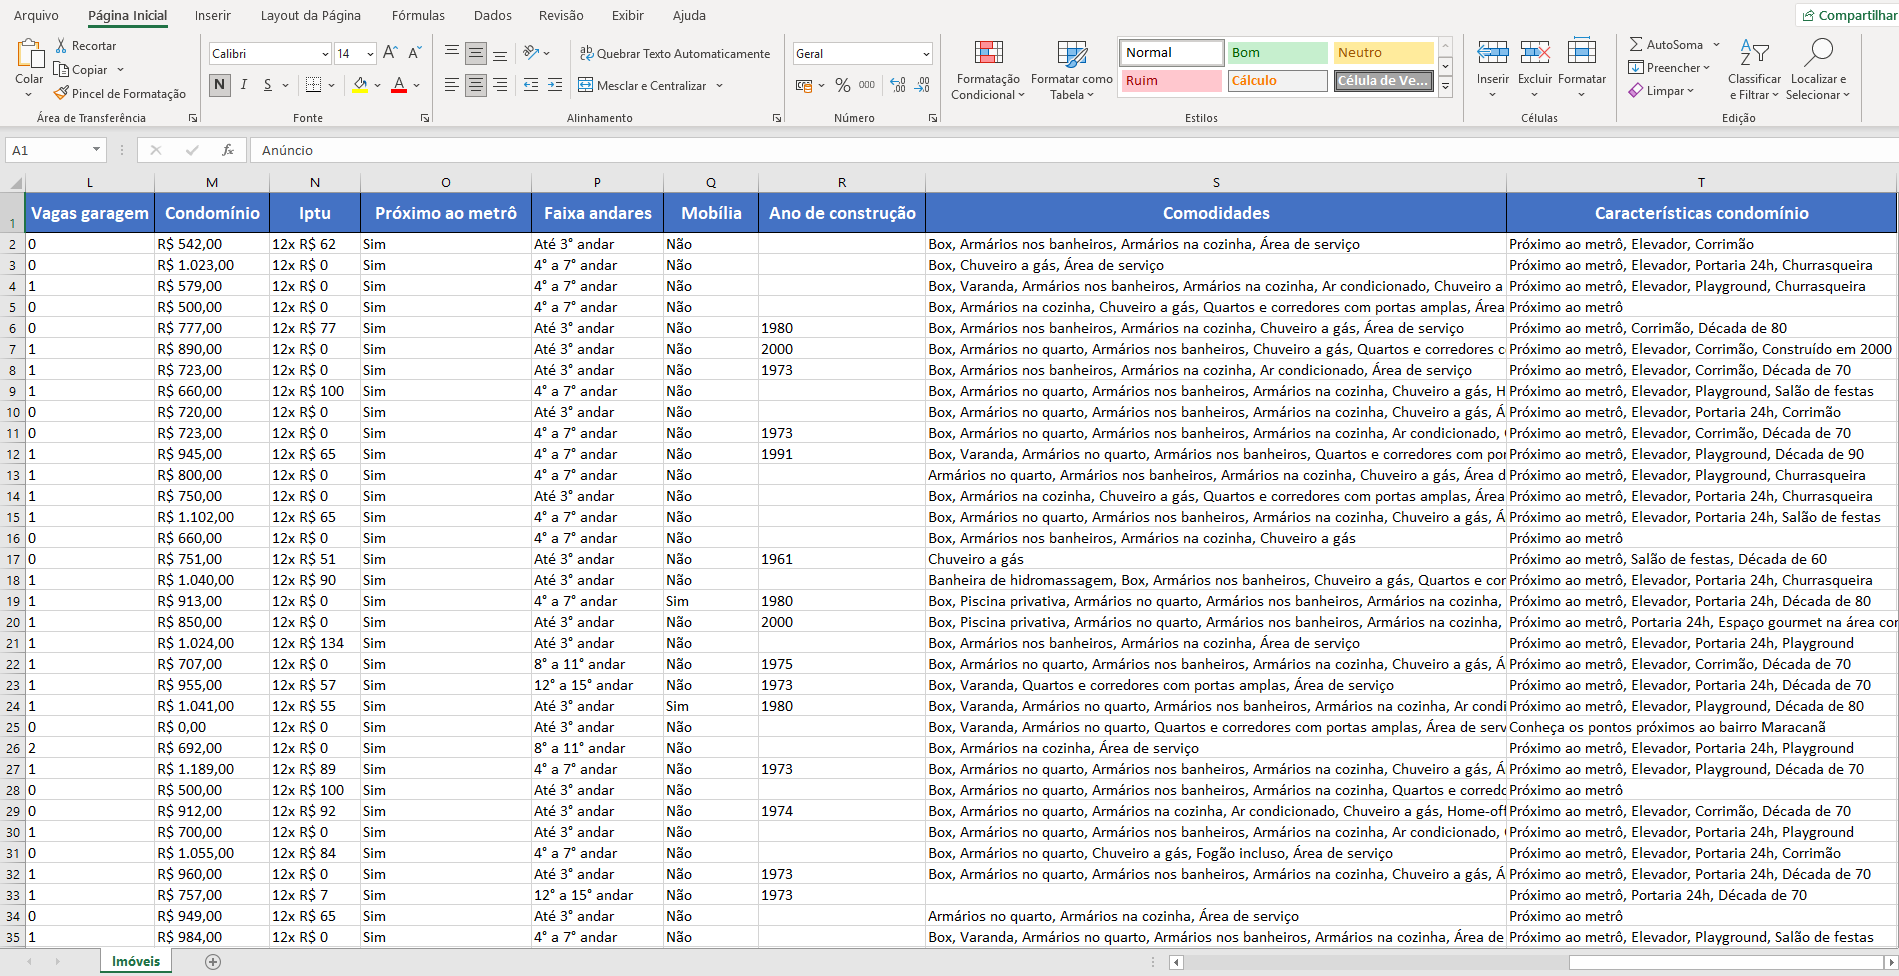
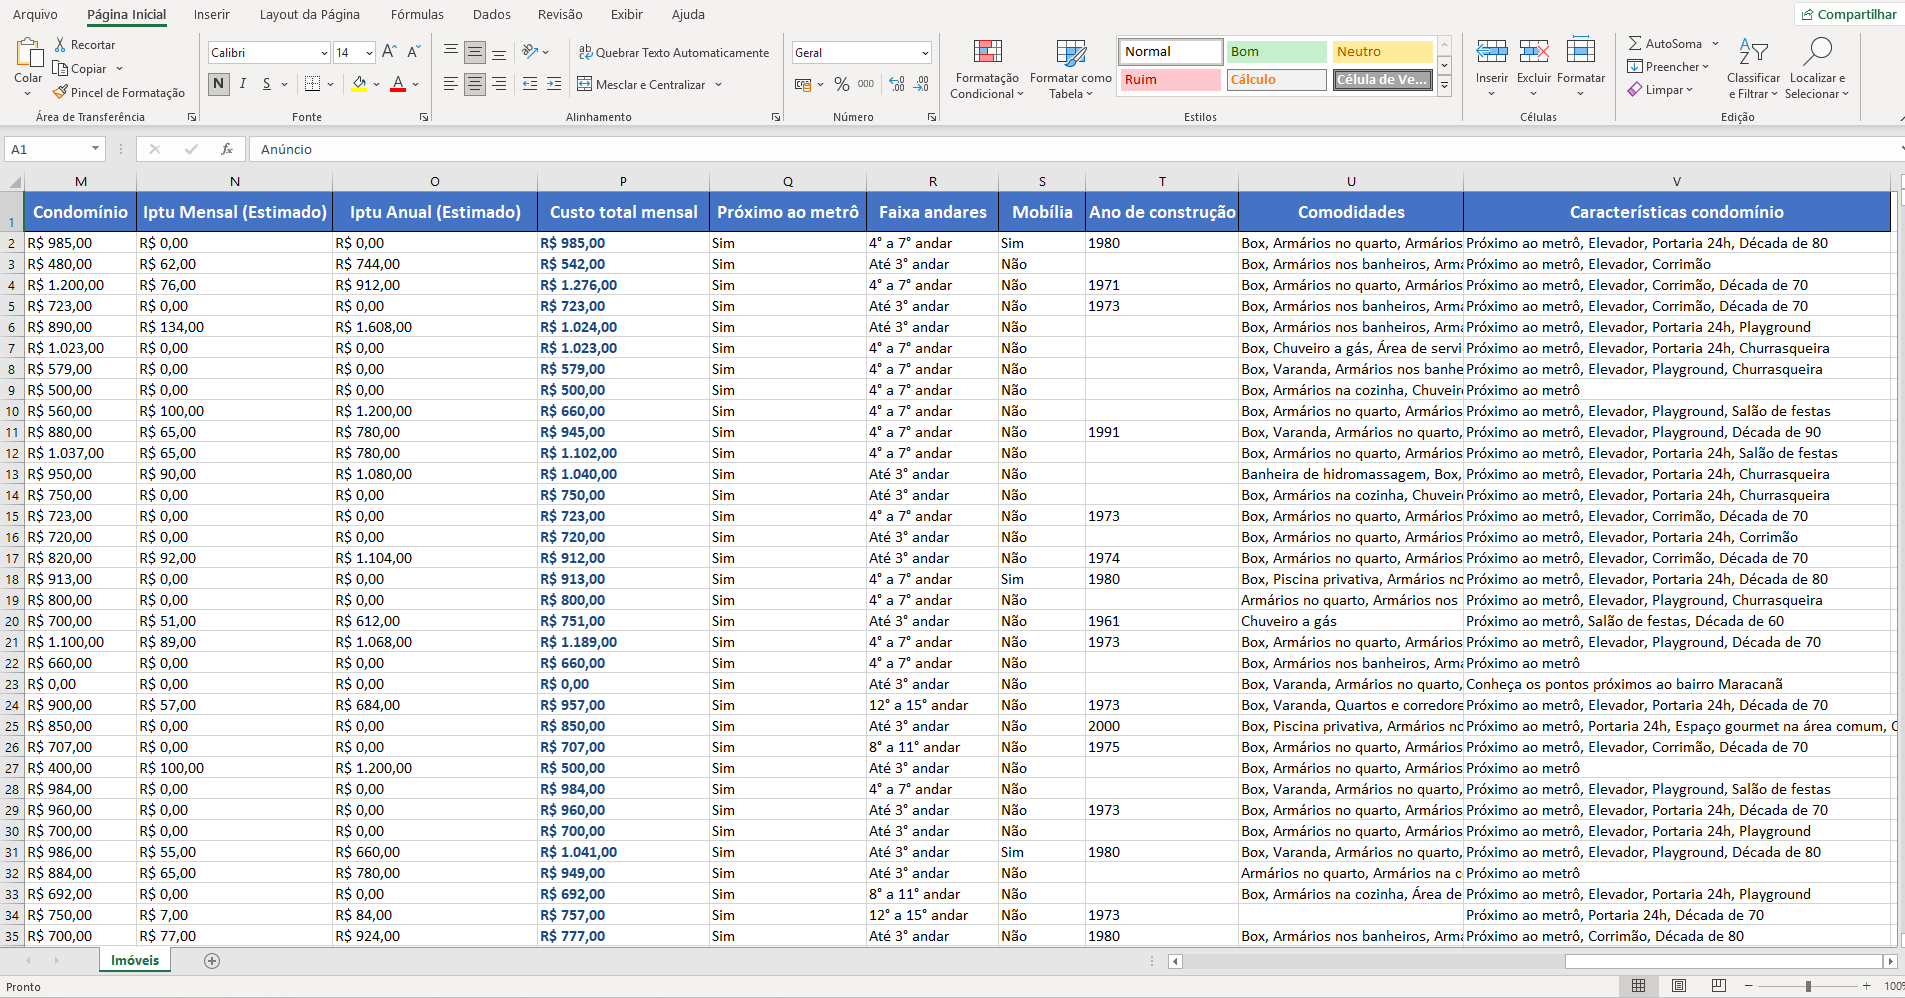
update readme and images

diff --git a/README.md b/README.md
@@ -42,7 +42,6 @@ images/
     ├── excel-2.png
     ├── filters-1.png
     ├── quinto_andar_site_2.png
-    ├── search-1.png
     ├── search-2.1.png
     ├── search-2.2.png
     ├── search-2.png
@@ -150,7 +149,7 @@ requirements.txt
  <img src="images/excel-1.png" width="850"/> 
  <img src="images/excel-1.1.png" width="850"/>
 
- <br><br><br>
+ <br><br>
 
  ### Properties for rent in Tijuca – up to R$ 3,500/month
  <img src="images/search-2.png" width="850"/> 
@@ -159,8 +158,9 @@ requirements.txt
  <img src="images/search-results-2.png" width="850"/> 
 
  ### Excel Report
- <img src="images/excel-1.png" width="850"/> 
- <img src="images/excel-1.1.png" width="850"/>
+ <img src="images/excel-2.png" width="850"/> 
+ <img src="images/excel-2.1.png" width="850"/>
+ <img src="images/excel-2.2.png" width="850"/>
 
 
 ### *Made by [Hugo Mello](https://github.com/HugoCDM)*
